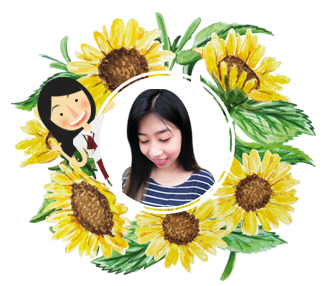
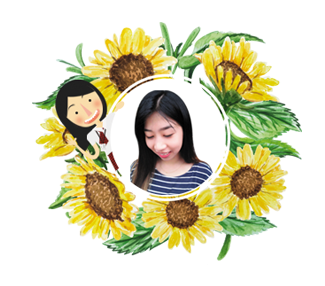
arranged the layout of my basic info

diff --git a/home.html b/home.html
@@ -27,18 +27,18 @@
 						<img src="img\pretty_image.png" alt="Welcome!">
 						<div class="list-style">
 							<li><h3>BASIC INFORMATION</h3></li>
-							<hr>
-							<li><b>Name:</b>&ensp;&ensp;&ensp;&ensp;&ensp;&ensp;&ensp;Zimrose B. Lavapiz</li>
-							<hr>
-							<li><b>Birthday:</b>&ensp;&ensp;&ensp;&ensp;&ensp;November 26, 1997</li>
-							<hr>
-							<li><b>Civil Status:</b>&ensp;&ensp;&ensp;Single</li>
-							<hr>
-							<li><b>Religion:</b>&ensp;&ensp;&ensp;&ensp;&ensp;&nbsp;Roman Catholic</li>
-							<hr>
-							<li><b>Email:</b>&ensp;&ensp;&ensp;&ensp;&ensp;&nbsp;&ensp;&ensp;zeebeeelle@gmail.com</li>
-							<hr>
-							<li><b>Address:</b>&ensp;&ensp;&ensp;&ensp;&ensp;&nbsp;Nidea St., Bo. Obrero, Davao City</li>
+							<hr><br/>
+							<li><b>Name:</b>&ensp;&ensp;&ensp;&ensp;&ensp;&ensp;&ensp;Zimrose B. Lavapiz </li>
+							<hr><br/>
+							<li><b>Birthday:</b>&ensp;&ensp;&ensp;&ensp;&ensp;November 26, 1997 </li>
+							<hr><br/>
+							<li><b>Civil Status:</b>&ensp;&ensp;&ensp;Single </li>
+							<hr><br/>
+							<li><b>Religion:</b>&ensp;&ensp;&ensp;&ensp;&ensp;&nbsp;Roman Catholic </li>
+							<hr><br/>
+							<li><b>Email:</b>&ensp;&ensp;&ensp;&ensp;&ensp;&nbsp;&ensp;&ensp;zeebeeelle@gmail.com </li>
+							<hr><br/>
+							<li><b>Address:</b>&ensp;&ensp;&ensp;&ensp;&ensp;&nbsp;Nidea St., Bo. Obrero, Davao City </li>
 							<hr>
 							<br/><br/><br/><br/>
 							

diff --git a/styles/style.css b/styles/style.css
@@ -52,7 +52,6 @@
 	height: 80px;
 }
 
-
 #nav ul{
     width: 500px;
     height: 80px;
@@ -99,7 +98,7 @@ ul li:active{
 
 #personal img{
 	float: left;
-	padding: 85px 60px 50px 60px;
+	padding: 70px 35px 30px;
 	
 }
 
@@ -133,7 +132,7 @@ ul li:active{
 
 hr{
 	border-bottom-color: white;
-	width: 390px;
+	width: 350px;
 	float: left;
 }
 
@@ -150,8 +149,8 @@ hr{
 
 div.list-style{
 	font-family: Calibri;
-	font-size: 20px;
-	margin-left: 15px;
+	font-size: 16px;
+	margin-left: 35px;
 	list-style: none;
 }
 
